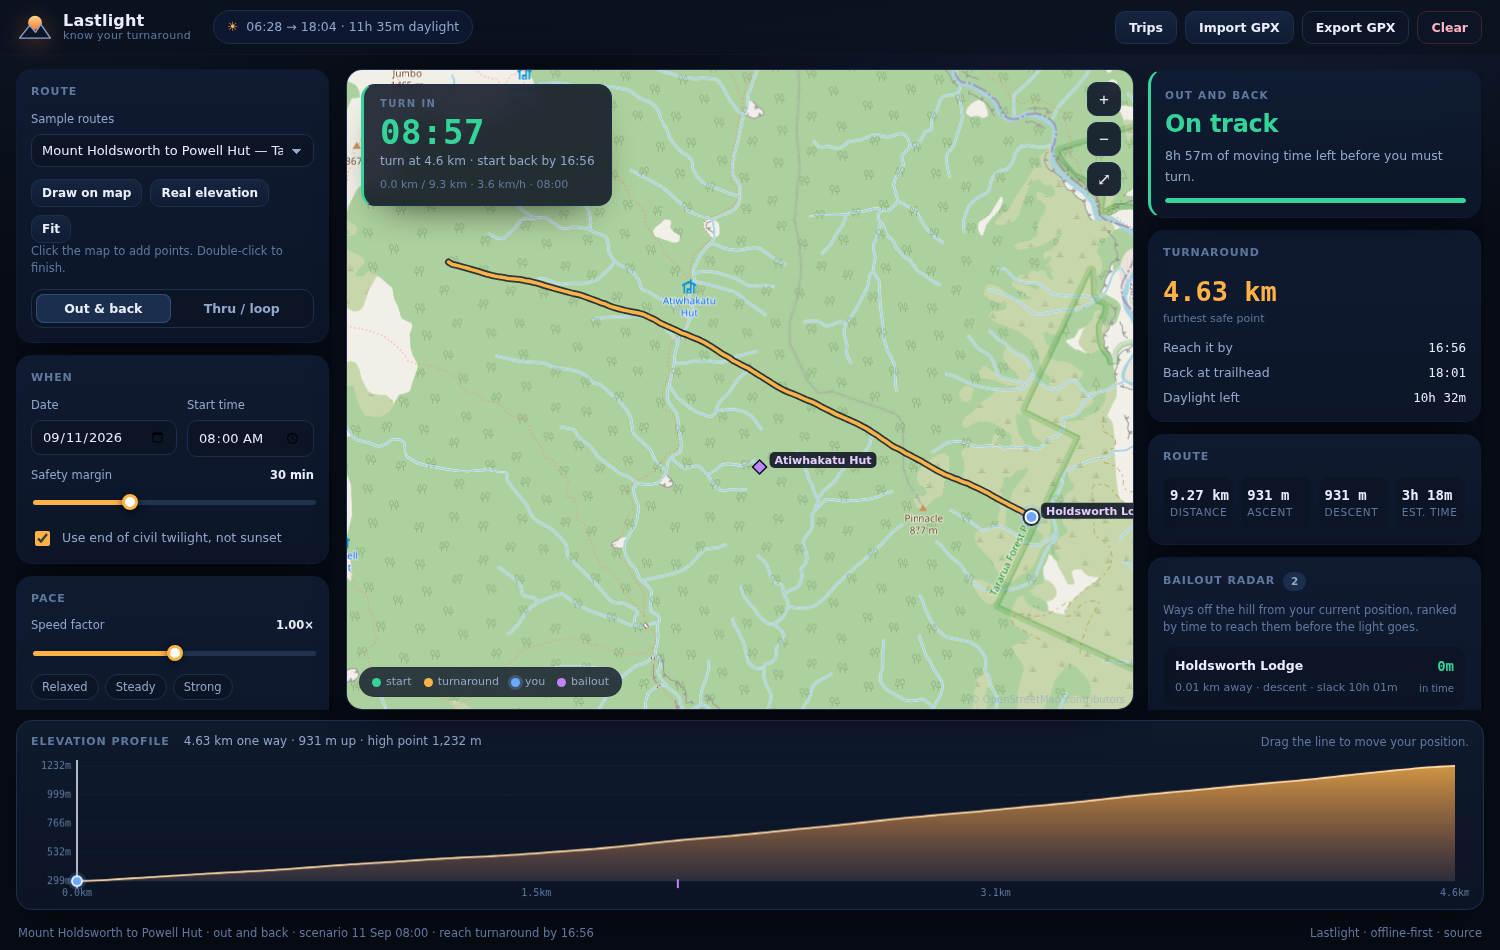
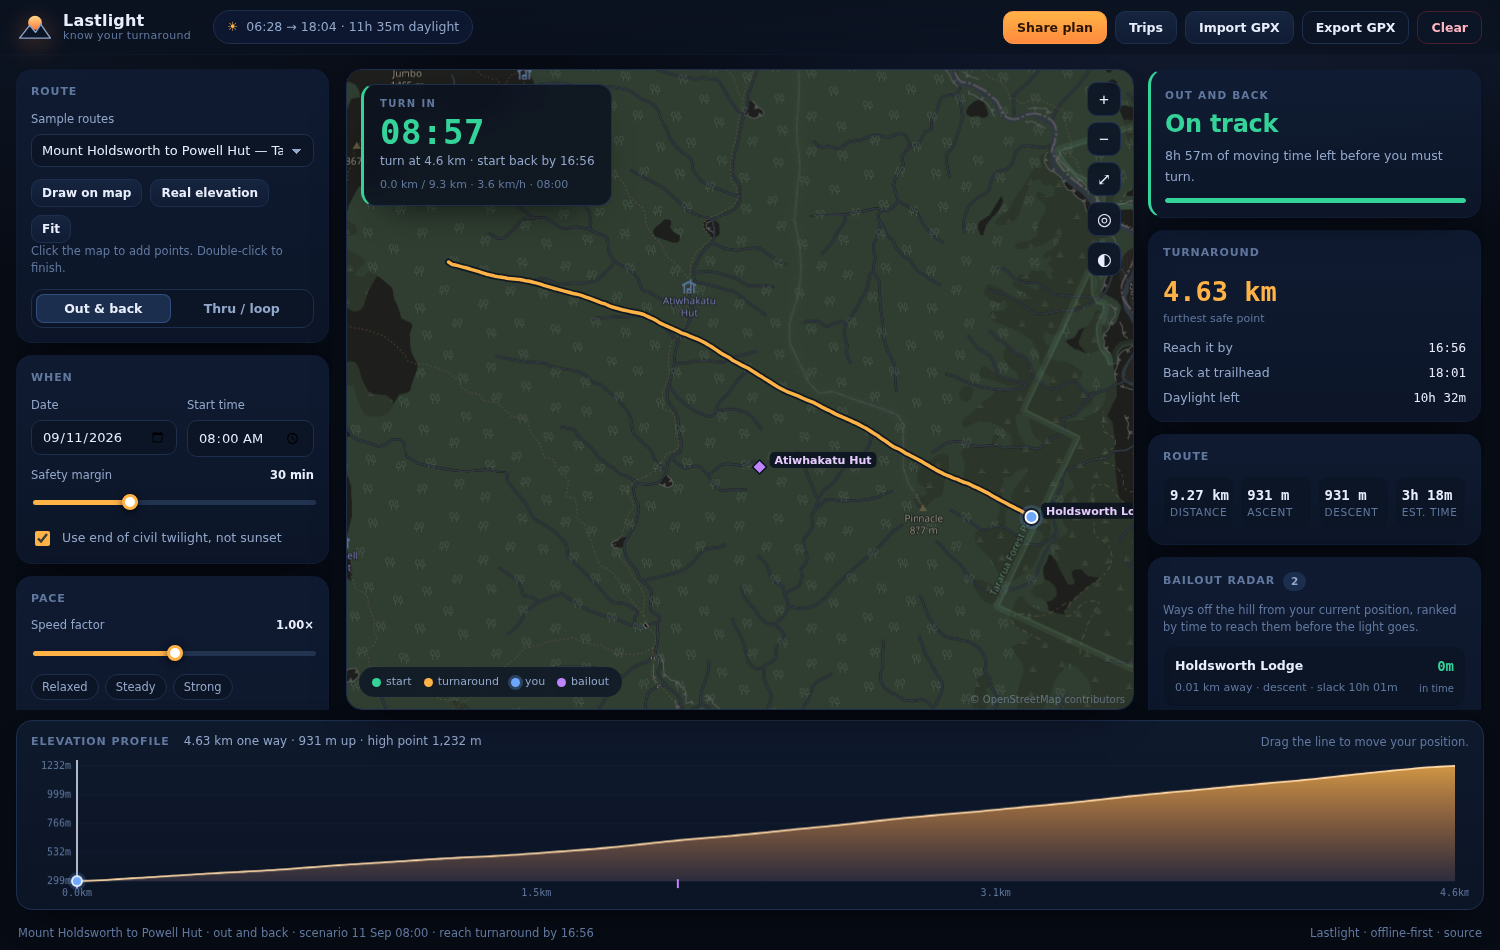
Add a night map style with a key-free canvas filter
Renders the OpenStreetMap basemap through an invert/hue-rotate canvas filter to get a dark map without any tile provider API key, and adds a map control to switch between night and terrain. The route overlays are drawn unfiltered.

diff --git a/src/ui/map.js b/src/ui/map.js
@@ -5,6 +5,9 @@
 const TILE = 256;
 const MIN_ZOOM = 3;
 const MAX_ZOOM = 18;
+// Turns light OpenStreetMap tiles into a night basemap without any tile server
+// that needs a key.
+const NIGHT_FILTER = "invert(1) hue-rotate(200deg) brightness(0.82) contrast(0.85) saturate(0.42)";
 
 function lonToWorldX(lon, worldSize) { return ((lon + 180) / 360) * worldSize; }
 
@@ -22,14 +25,26 @@ function worldYToLat(y, worldSize) {
 
 function clamp(v, lo, hi) { return Math.min(hi, Math.max(lo, v)); }
 
+// One free basemap (OpenStreetMap, no API key). The night look is produced by
+// filtering the tiles on the canvas, so there is nothing to license or leak.
+export function makeTileUrl() {
+  return function (z, x, y) {
+    return "https://tile.openstreetmap.org/" + z + "/" + x + "/" + y + ".png";
+  };
+}
+
+export function attributionFor() {
+  return "\u00a9 OpenStreetMap contributors";
+}
+
 export class TrailMap {
   constructor(canvas, options) {
     const opts = options || {};
     this.canvas = canvas;
     this.ctx = canvas.getContext("2d");
-    this.tileUrl = opts.tileUrl || function (z, x, y) {
-      return "https://tile.openstreetmap.org/" + z + "/" + x + "/" + y + ".png";
-    };
+    this.style = opts.style || "dark";
+    this.tileUrl = opts.tileUrl || makeTileUrl(this.style);
+    this.attribution = opts.attribution || attributionFor(this.style);
     this.center = opts.center || { lat: -36.8, lon: 174.8 };
     this.zoom = opts.zoom || 12;
     this.tiles = new Map();
@@ -121,6 +136,12 @@ export class TrailMap {
   }
 
   setTurnaround(point) { this.turnaround = point; }
+
+  setStyle(style) {
+    this.style = style;
+    this.attribution = attributionFor();
+    this.render();
+  }
   setBailouts(list) { this.bailouts = list || []; }
 
   // ---------- tiles ----------
@@ -175,21 +196,21 @@ export class TrailMap {
     const y1 = Math.min(n - 1, Math.floor((top + this.height) / TILE));
     const visible = new Set();
 
+    // The night look is a canvas filter over plain OSM tiles; the route and
+    // markers drawn below stay un-filtered.
+    ctx.filter = this.style === "terrain" ? "none" : NIGHT_FILTER;
     for (let y = y0; y <= y1; y++) {
       for (let x = x0; x <= x1; x++) {
         const wx = ((x % n) + n) % n;
         visible.add(z + "/" + wx + "/" + y);
         const rec = this._tile(z, x, y);
+        if (rec.state !== "loaded") continue;
         const sx = Math.round(x * TILE - left);
         const sy = Math.round(y * TILE - top);
-        if (rec.state === "loaded") {
-          ctx.drawImage(rec.img, sx, sy, TILE + 1, TILE + 1);
-        } else {
-          ctx.fillStyle = ((x + y) & 1) ? "#0d1626" : "#0b1322";
-          ctx.fillRect(sx, sy, TILE + 1, TILE + 1);
-        }
+        ctx.drawImage(rec.img, sx, sy, TILE + 1, TILE + 1);
       }
     }
+    ctx.filter = "none";
     this._prune(visible);
 
     this._drawRoute(ctx);
@@ -201,7 +222,7 @@ export class TrailMap {
     ctx.font = "10px ui-sans-serif, system-ui, sans-serif";
     ctx.fillStyle = "#8ea3c788";
     ctx.textAlign = "right";
-    ctx.fillText("© OpenStreetMap contributors", this.width - 8, this.height - 6);
+    ctx.fillText(this.attribution, this.width - 8, this.height - 6);
     ctx.textAlign = "left";
     if (this.drawMode) {
       ctx.fillStyle = "#ffb347";

diff --git a/src/app.js b/src/app.js
@@ -650,6 +650,12 @@ function wire() {
   $("locate-btn").addEventListener("click", function () {
     if (store.get().live) stopLive(); else startLive();
   });
+  let mapStyle = "dark";
+  $("map-style").addEventListener("click", function () {
+    mapStyle = mapStyle === "dark" ? "terrain" : "dark";
+    map.setStyle(mapStyle);
+    flashStatus("Map style: " + (mapStyle === "dark" ? "night" : "terrain") + ".");
+  });
   $("zoom-in").addEventListener("click", function () { map.zoomBy(1); });
   $("zoom-out").addEventListener("click", function () { map.zoomBy(-1); });
   const fit = function () { map.fitTo(derived ? derived.profile.points : store.get().track); map.render(); };

diff --git a/index.html b/index.html
@@ -160,6 +160,7 @@
         <button class="map-btn" id="zoom-out" type="button" title="Zoom out">−</button>
         <button class="map-btn" id="btn-fit2" type="button" title="Fit route">⤢</button>
         <button class="map-btn" id="locate-btn" type="button" title="Use my location">◎</button>
+        <button class="map-btn" id="map-style" type="button" title="Toggle night / terrain map">◐</button>
       </div>
       <div class="map-hint" id="map-hint" hidden>Click to add a point · double-click to finish</div>
       <div class="legend">
